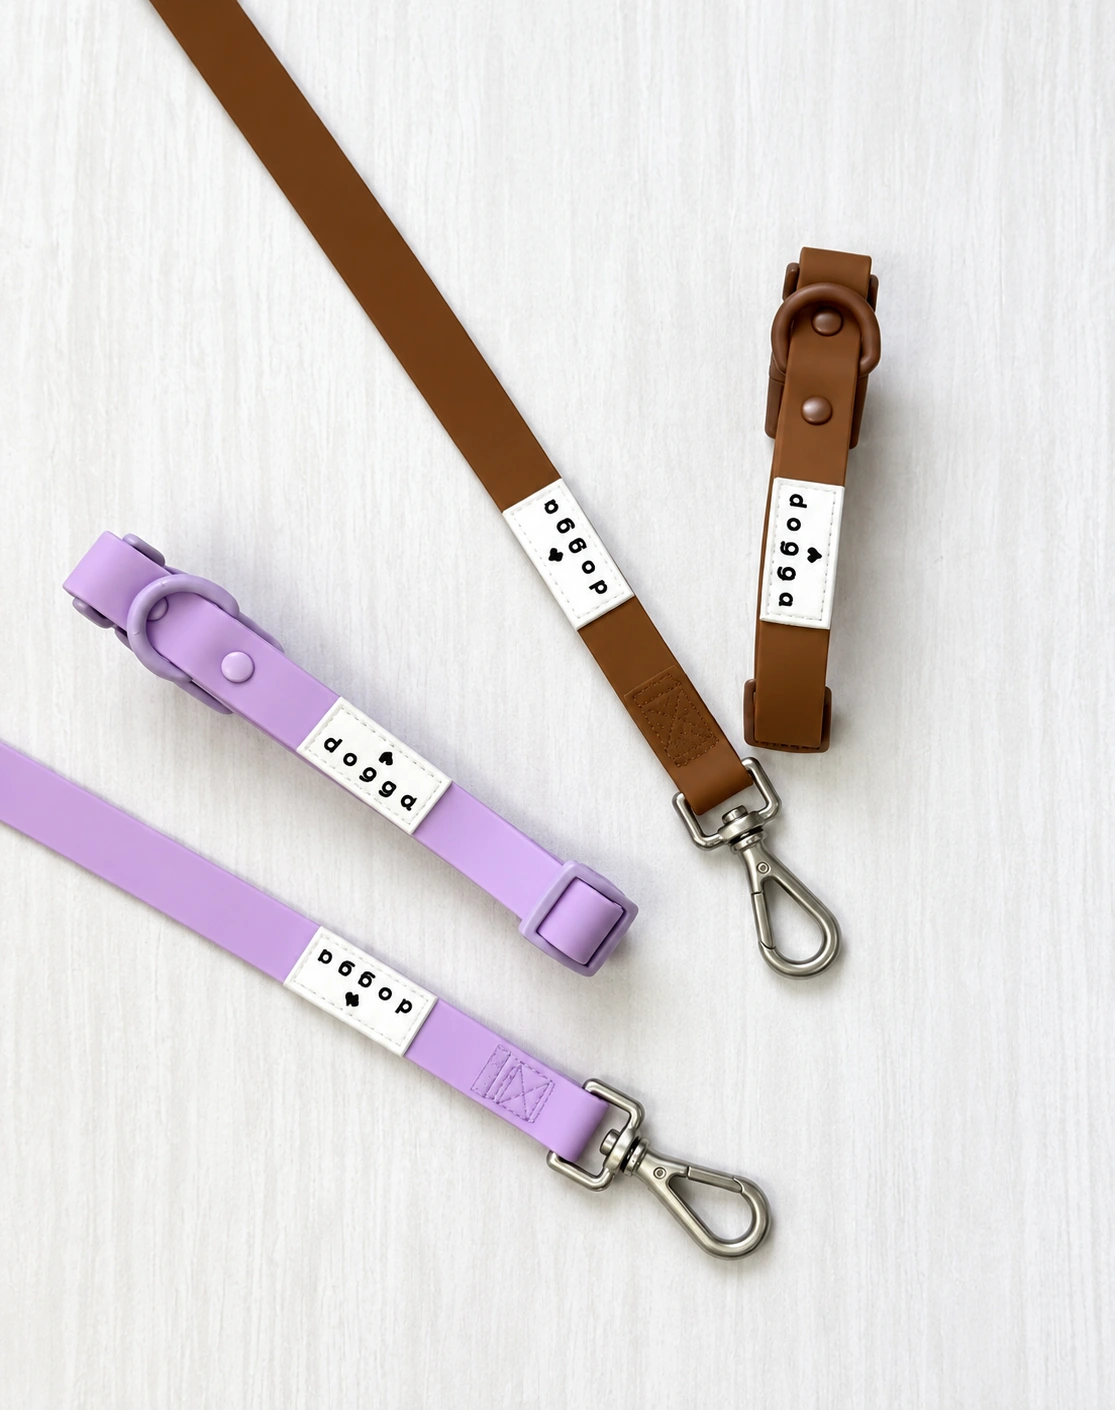
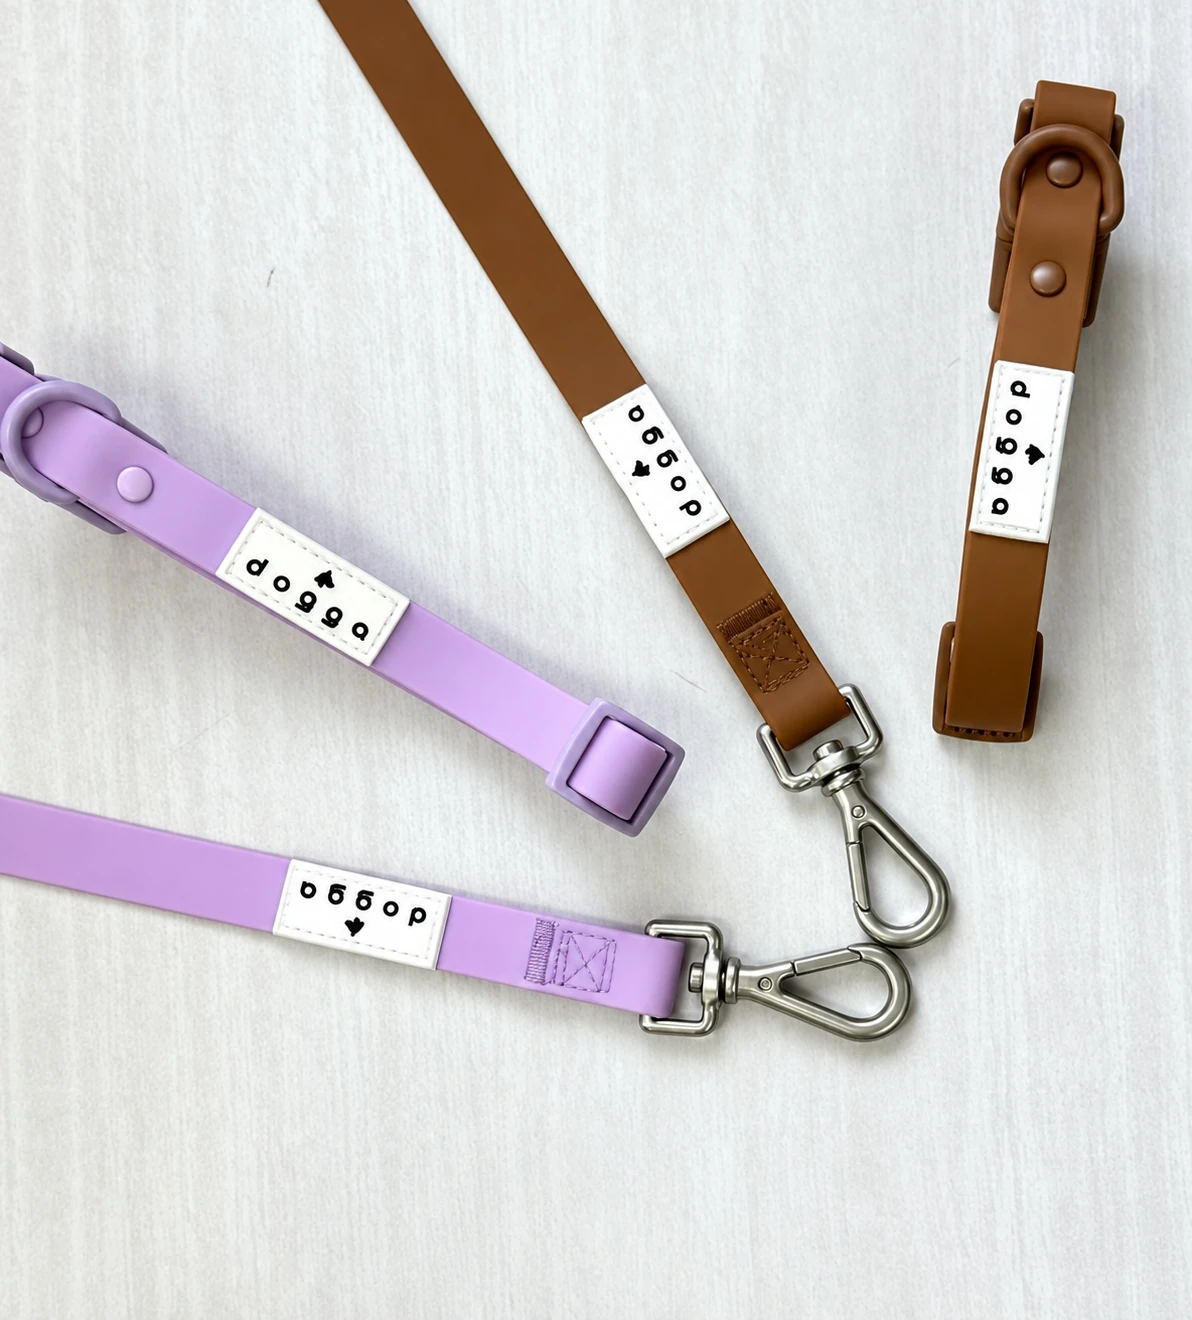
Replace DOGGA product photo with corrected brown and lilac version

diff --git a/dogga.html b/dogga.html
@@ -22,7 +22,7 @@
     </section>
     <section class="dogga-presentation" aria-label="Logotipo DOGGA y aplicación en accesorios">
       <div class="dogga-logo-panel"><span class="dogga-panel-index">01 / El logotipo</span><div class="dogga-logo-brown" role="img" aria-label="Logotipo DOGGA marrón con silueta de perro"></div><span class="dogga-panel-foot">DOGGA / Identidad</span></div>
-      <figure class="dogga-photo-panel"><img src="assets/dogga-purple-brown.webp" width="1115" height="1410" alt="Correa y collar DOGGA morados junto a correa y collar marrones sobre una superficie clara" decoding="async"><figcaption>02 / La marca en producto</figcaption></figure>
+      <figure class="dogga-photo-panel"><img src="assets/dogga-purple-brown.webp?v=2" width="1192" height="1320" alt="Correa y collar DOGGA morados junto a correa y collar marrones sobre una superficie clara" decoding="async"><figcaption>02 / La marca en producto</figcaption></figure>
     </section>
     <section class="dogga-brandbook" aria-label="Brandbook DOGGA"><div><p class="eyebrow">Para ver más</p><h2>Brandbook<span aria-hidden="true">↗</span></h2></div><p>Próximamente, el documento completo de la marca.</p><span class="brandbook-pending" aria-disabled="true">Ver brandbook ↗</span></section>
   </main>
